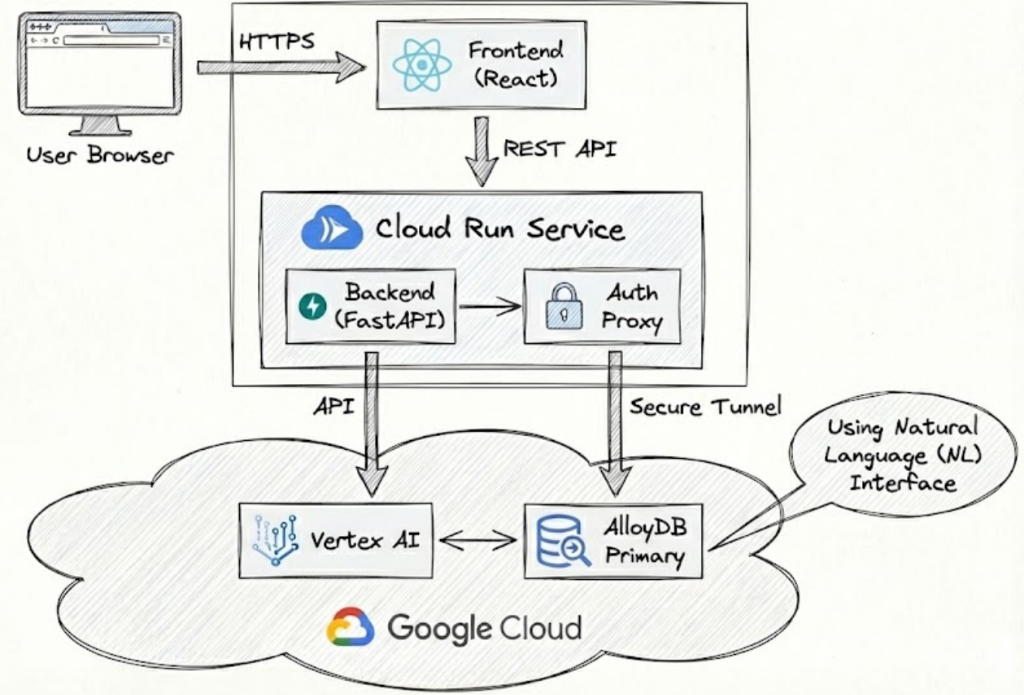
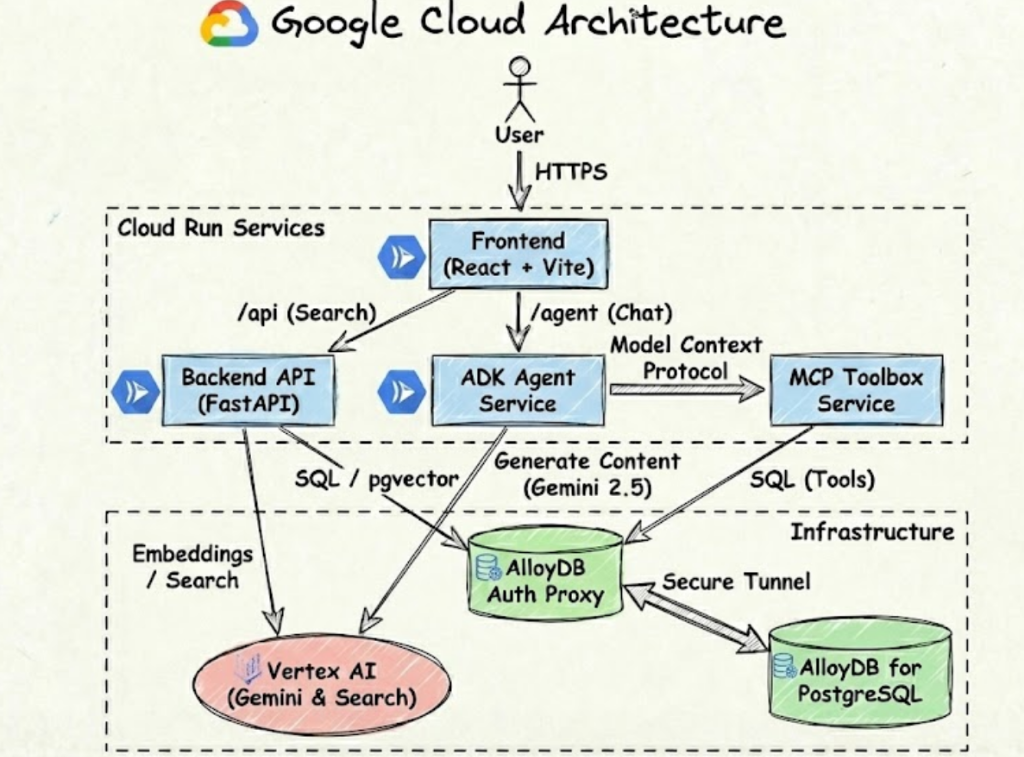
new arch diagram and readme update

diff --git a/README.md b/README.md
@@ -30,41 +30,7 @@ This application follows a modern, containerized microservices architecture desi
 6.  **ADK Agent Service**: A dedicated AI Agent built with the Google Agent Development Kit (ADK) that acts as a "Concierge," helping users find properties via natural language chat.
 7.  **MCP Toolbox Service**: A Model Context Protocol (MCP) server that exposes AlloyDB tools (like `search-properties`) to the Agent.
 
-```mermaid
-graph TD
-    User[User] -->|HTTPS| Frontend
-    
-    subgraph "Cloud Run Services"
-        Frontend[Frontend (React + Vite)]
-        Backend[Backend API (FastAPI)]
-        Agent[ADK Agent Service]
-        Toolbox[MCP Toolbox Service]
-    end
-    
-    subgraph "Infrastructure"
-        Proxy[AlloyDB Auth Proxy]
-        AlloyDB[(AlloyDB for PostgreSQL)]
-        VertexAI[Vertex AI (Gemini & Search)]
-    end
-
-    %% Frontend Interactions
-    Frontend -->|/api (Search)| Backend
-    Frontend -->|/agent (Chat)| Agent
-    
-    %% Backend Interactions
-    Backend -->|SQL / pgvector| Proxy
-    Backend -->|Embeddings / Search| VertexAI
-        
-    %% Toolbox Interactions
-    Toolbox -->|SQL (Tools)| Proxy
-    
-    %% Agent Interactions
-    Agent -->|Model Context Protocol| Toolbox
-    Agent -->|Generate Content (Gemini 2.5)| VertexAI
-
-    %% Infrastructure Connections
-    Proxy -->|Secure Tunnel| AlloyDB
-```
+![Architecture Diagram](assets/architecture_diagram.png)
 
 ### User Interface
 The interface is designed to be intuitive, offering four distinct search modes to cater to different user needs.
